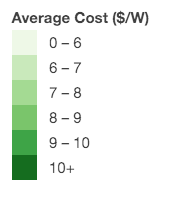
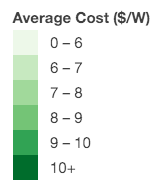
correct legends displaying and removing

diff --git a/app/assets/stylesheets/map.css b/app/assets/stylesheets/map.css
@@ -4,24 +4,26 @@ body { margin:0; padding:0; }
 #avg_cost {
   position:absolute;
   bottom:10px;
-  right:10px;
+  right:0px;
   z-index: 10;
-  width: 170px;
+  width: 10%;
 }
+
 #total_capacity {
   position:absolute;
-  bottom:10px;
-  right:10px;
+  bottom:9px;
+  right:0px;
   z-index: 10;
-  width: 170px;
+  width: 10%;
   display: none;
 }
+
 #total_installs {
   position:absolute;
   bottom:10px;
-  right:10px;
+  right:0px;
   z-index: 10;
-  width: 170px;
+  width: 10%;
   display: none;
 }
 

diff --git a/app/assets/javascripts/legend.js b/app/assets/javascripts/legend.js
@@ -11,7 +11,7 @@ function getLegendHTML() {
     labels = [],
     from, to;
 } else {
-    var grades = [0, 5, 25, 100, 300],
+    var grades = [0, 1, 5, 25, 100, 300],
     labels = [],
     from, to;
 }
@@ -48,7 +48,7 @@ function getColor(p, property) {
         p > 100  ? '#31a354' :
         p > 25  ? '#74c476' :
         p > 5  ? '#a1d99b' :
-        p > 0   ? '#c7e9c0' :
+        p > 1   ? '#c7e9c0' :
         '#edf8e9';
   }
 }

diff --git a/app/assets/javascripts/render_map.js b/app/assets/javascripts/render_map.js
@@ -30,7 +30,7 @@ function renderMap(statesData){
                fillOpacity: 0,
            };
        }
-       
+
        hiddenLayer.eachLayer(function(layer) {
          if (layer.feature.properties.name == query) {
           map.fitBounds(layer.getBounds());
